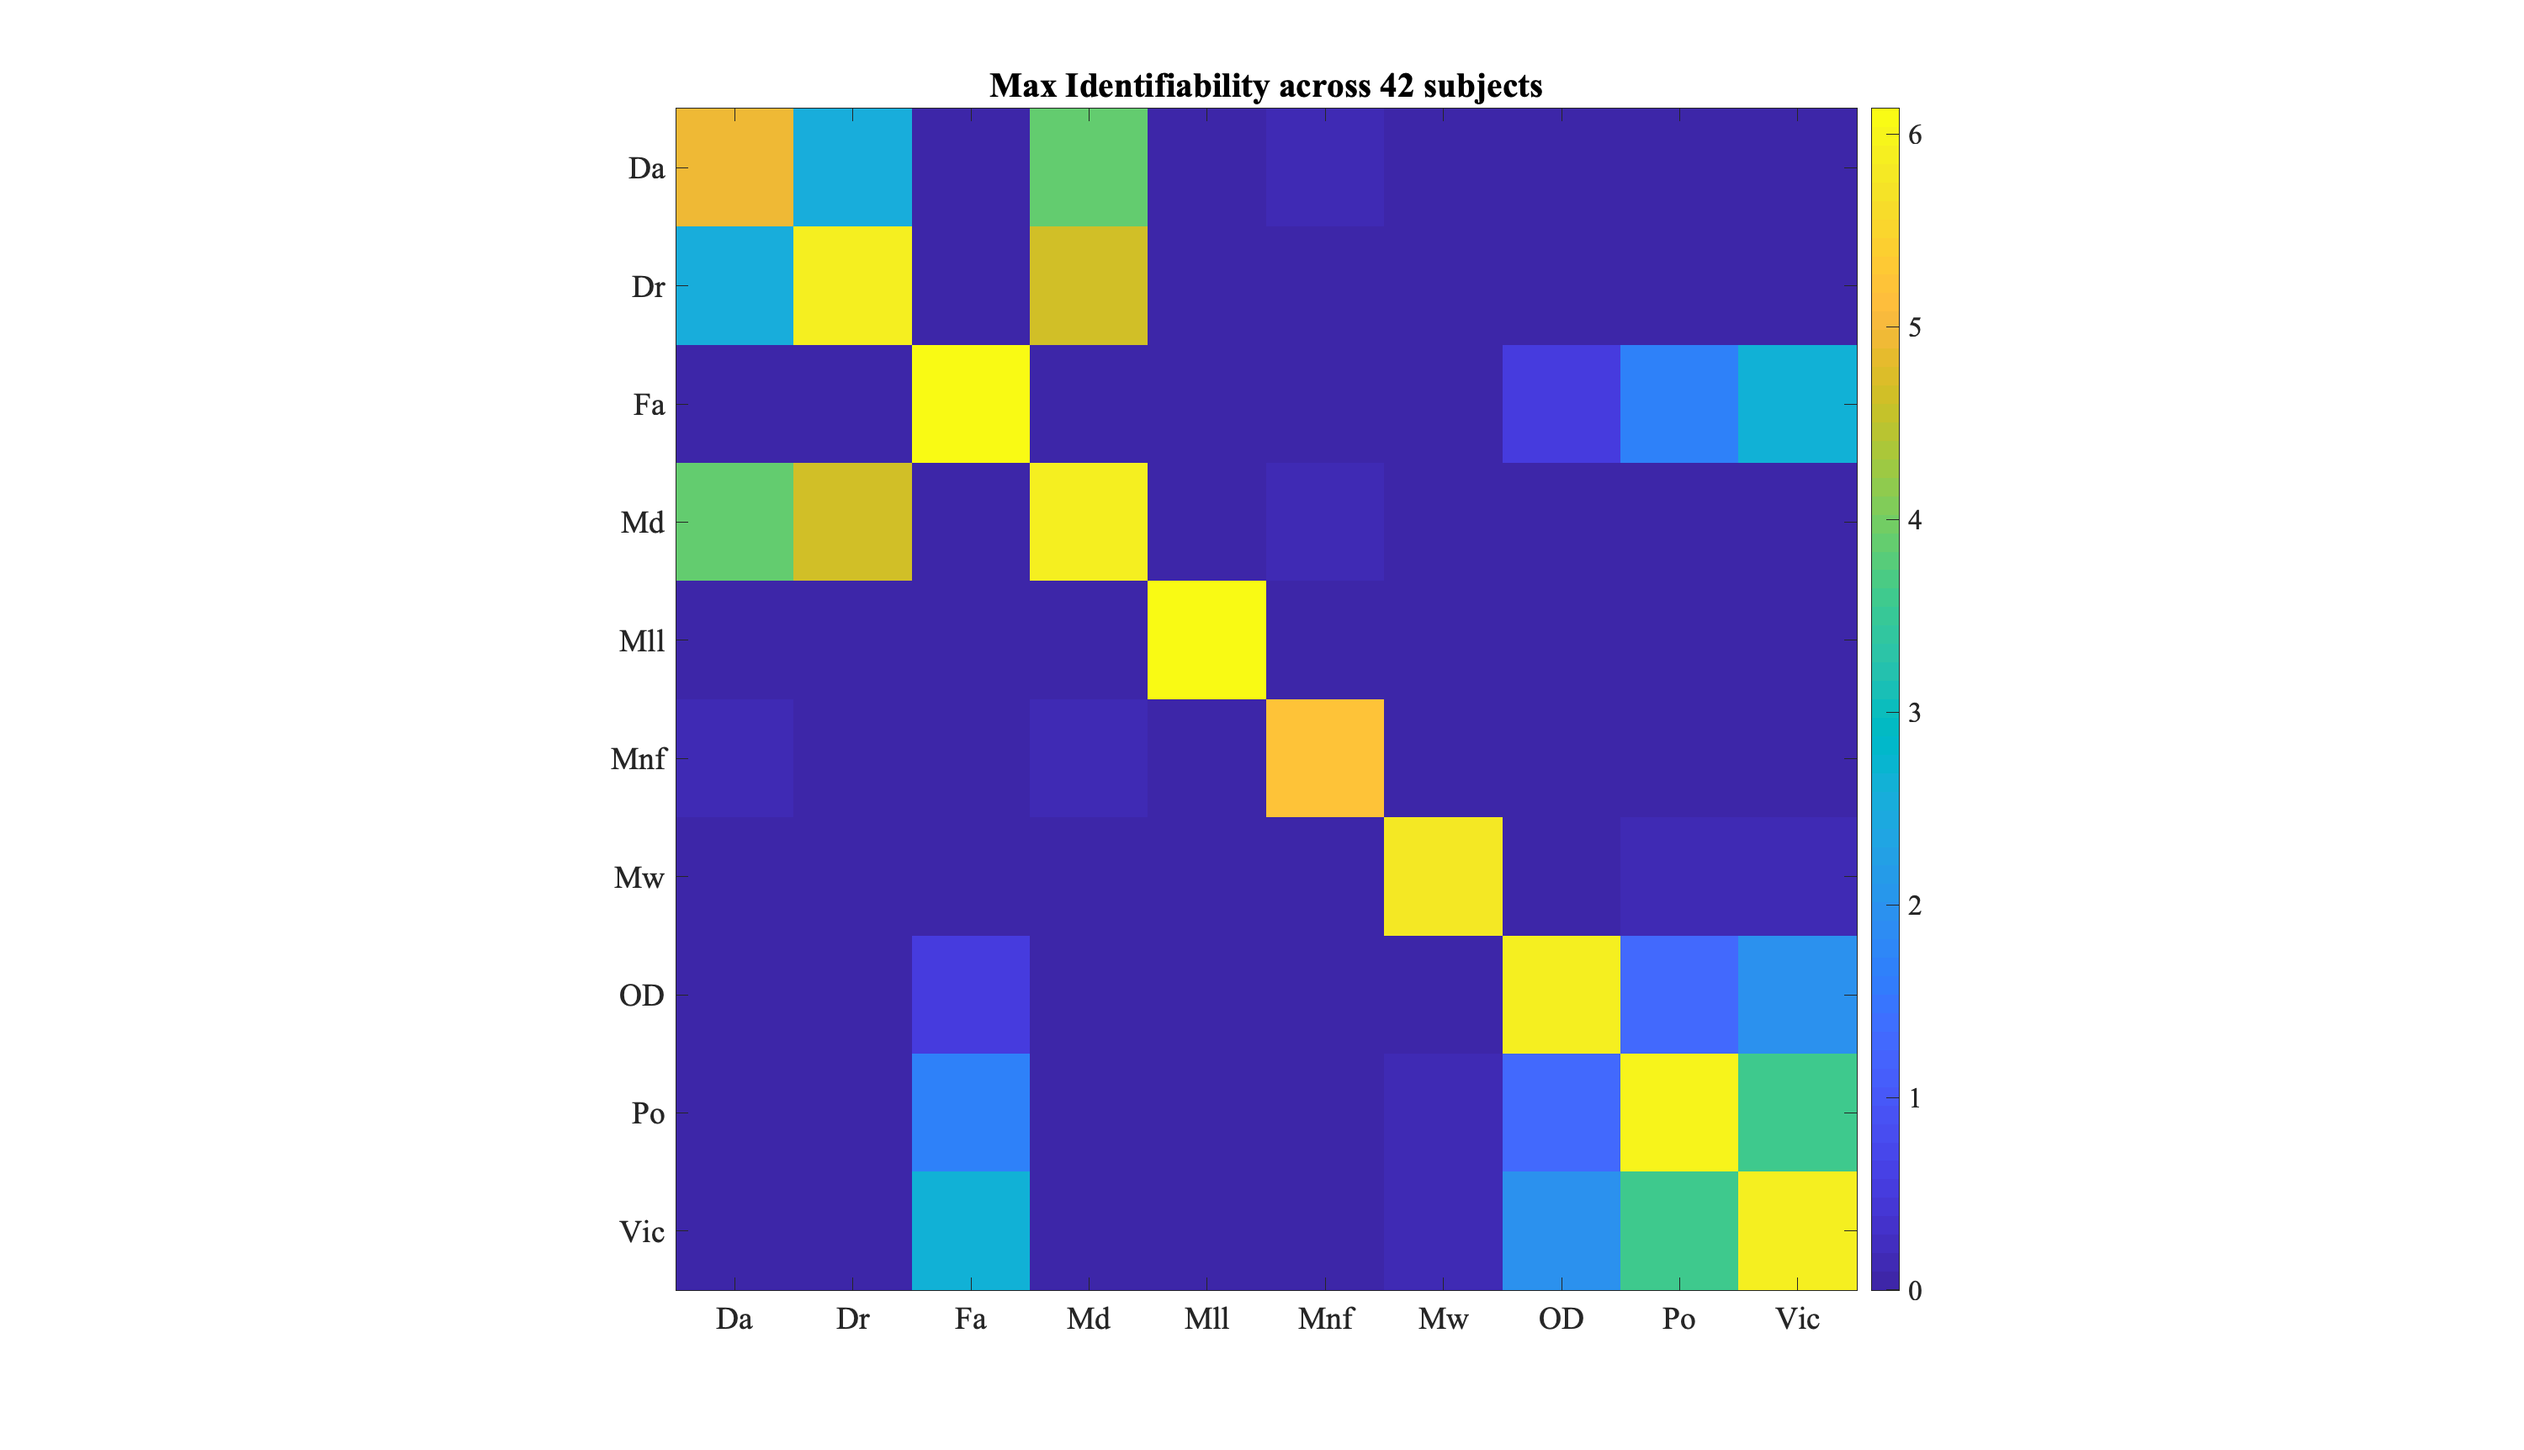
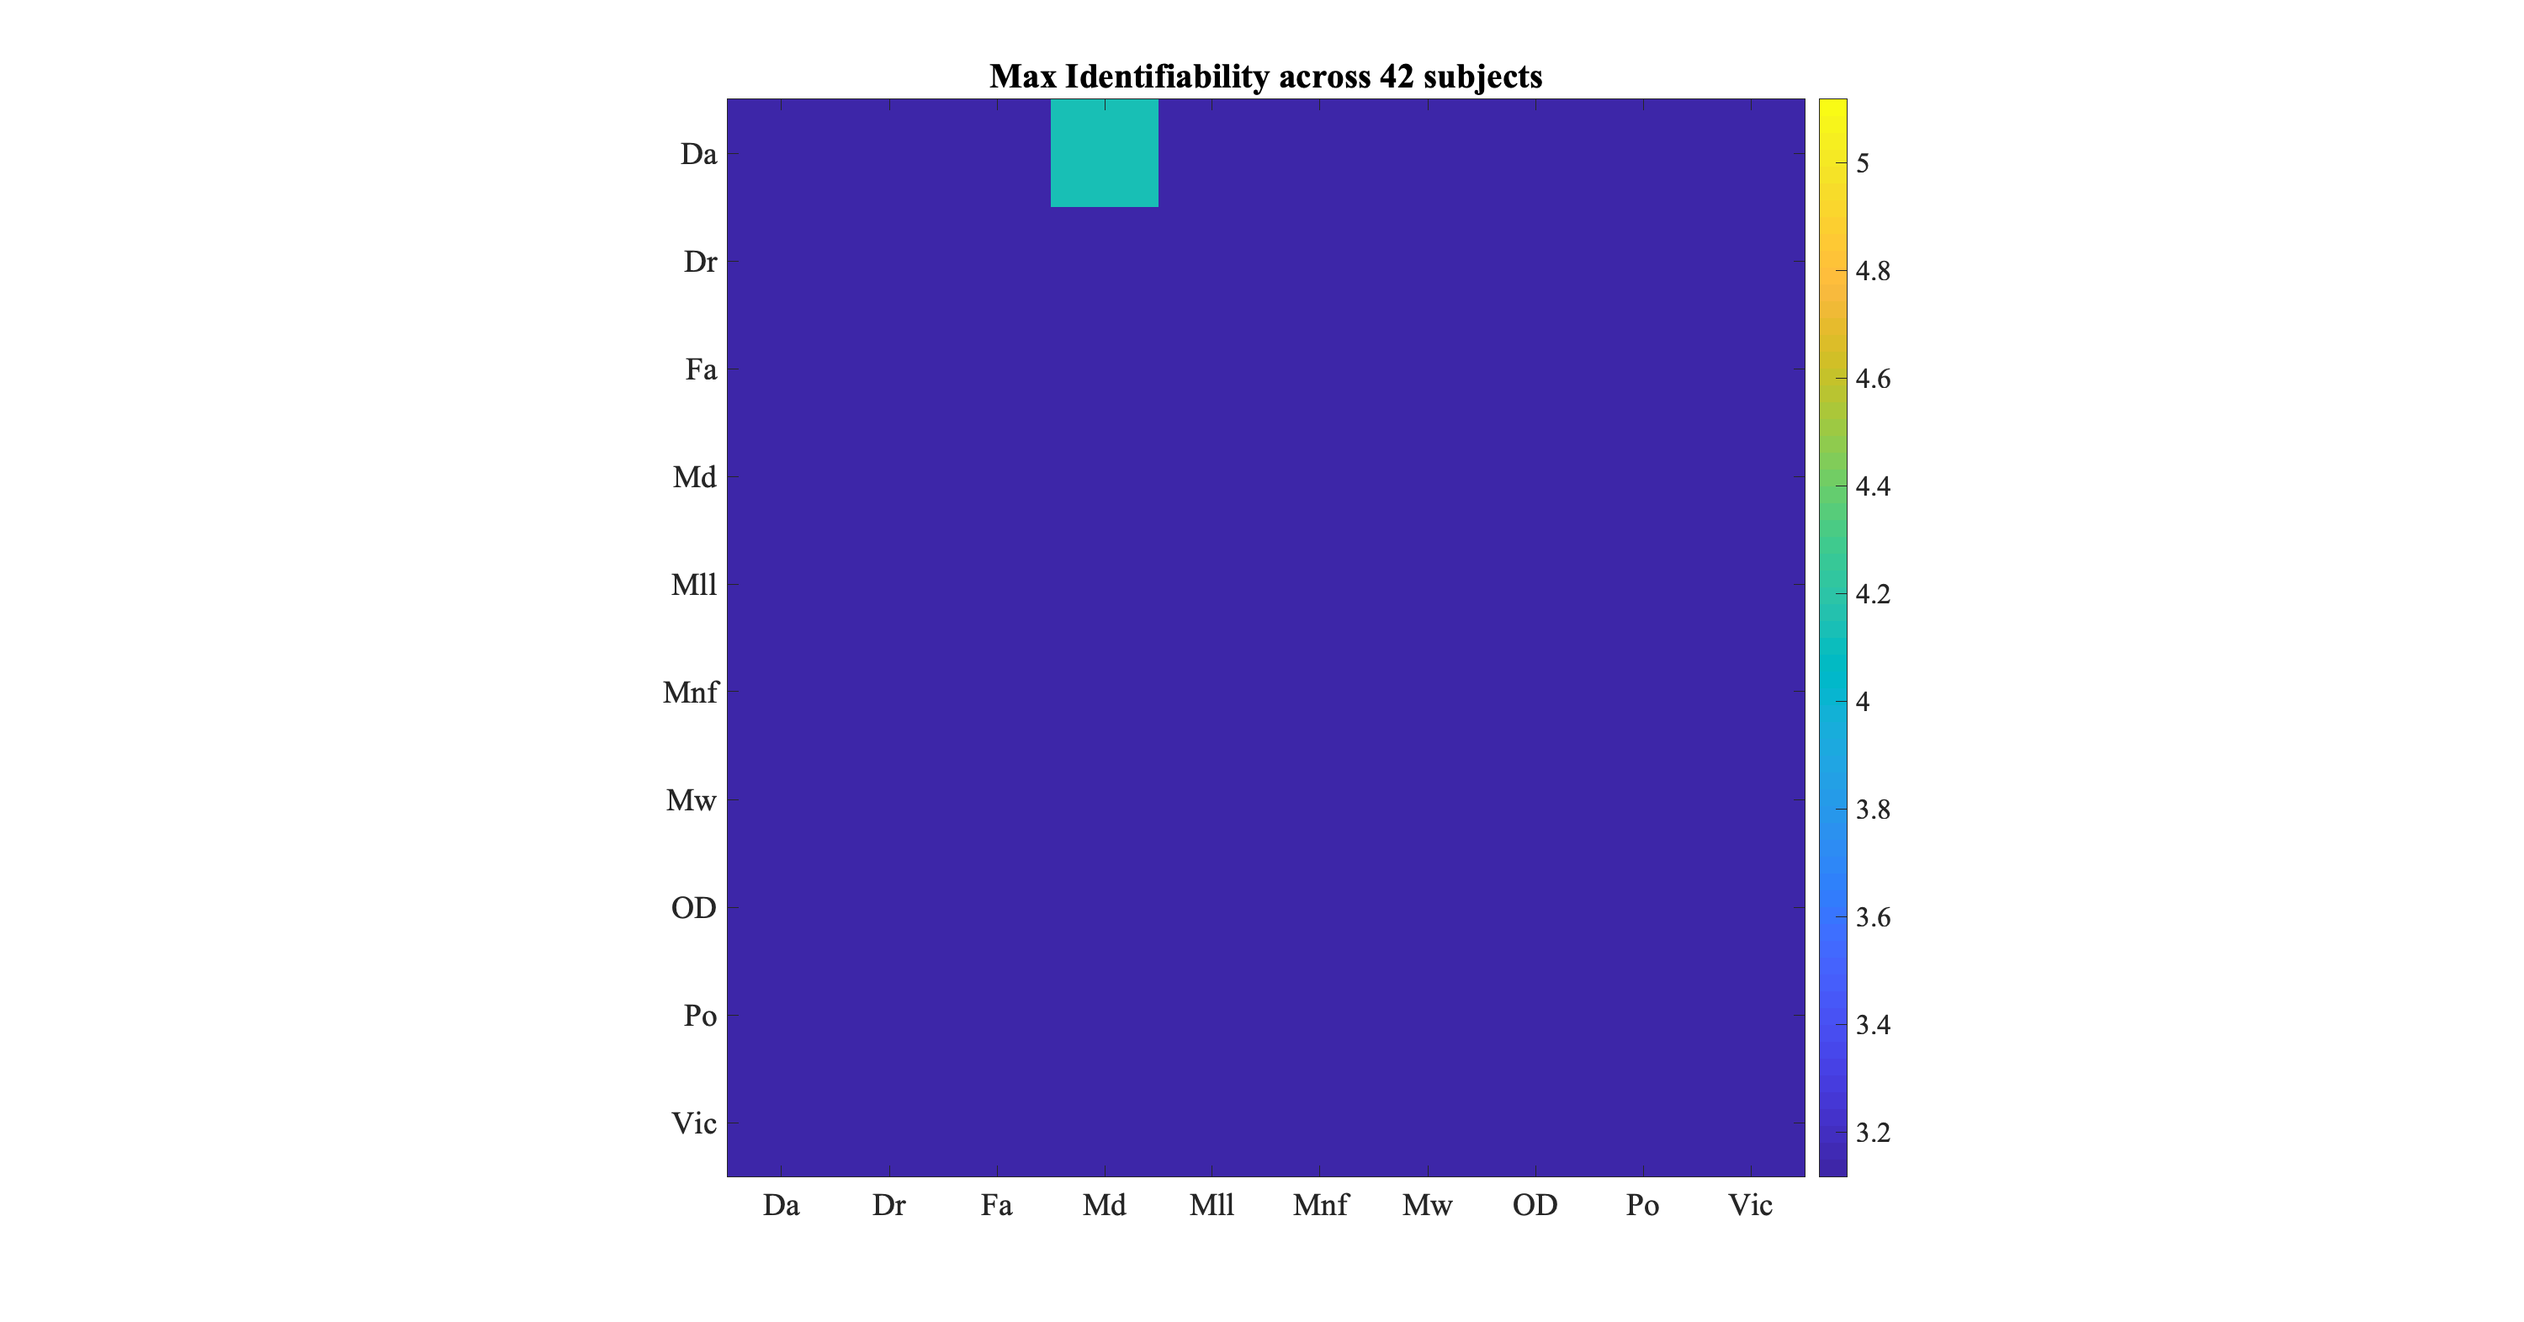
idiff done with spearman

Changed region(s): [[0.248, 0.0312, 0.775, 0.9357], [0.341, 0.6238, 0.434, 0.9357]]

diff --git a/Scripts/sc_identifiability.m b/Scripts/sc_identifiability.m
@@ -81,8 +81,8 @@ test_index = 1:42;
 retest_index = 43:84;
 max_idiff_mat = nan(10);
 
-for metric_1 = 1
-    for metric_2 = 4
+for metric_1 = 1:10
+    for metric_2 = 1:10
         metric1_index = metric_1:10:configs.numFCs;
         metric2_index = metric_2:10:configs.numFCs;
         pairwise_mat = connectivity_matrix(:,[metric1_index, metric2_index]);
@@ -98,31 +98,31 @@ for metric_1 = 1
             % Plotting
 %             figure,
 %             plot(r2)
-            fig = figure('units','normalized','outerposition',[0 0 1 1]); % Plot Figures
-            %suptitle(['Opt Identifiability Recon at ' int2str(m_star) ' PCA comps'])
-            subplot(1,3,1);
-            imagesc(Ident_mat_orig);
-            axis square; xlabel('subjects (Test)');ylabel('subjects (Retest)');
-            title(sprintf('original data, Idiff = %0.2f',Idiff_orig)); colorbar; % caxis([0.2 1]);
-            set(gca,'XTick',[],'YTick',[]);
-            
-            subplot(1,3,2);
-            plot(PCA_comps_range,Idiff_orig*ones(length(PCA_comps_range),1),'--r','LineWidth',2); hold on;
-            plot(PCA_comps_range,Idiff_recon,'-ob','LineWidth',2,'MarkerFaceColor','b','MarkerSize',8);
-            plot(m_star,Idiff_opt,'-sk','LineWidth',2,'MarkerFaceColor','k','MarkerSize',12);
-            
-            xlabel('number of PCA components'); ylabel('Idiff (z-score)');
-            axis square;
-            legend({'original data','reconstruction','optimal reconstruction'},'Location','SouthEast');
-            title(sprintf('%s | %s | %s', metrics{metric_1}, metrics{metric_2}, type{1}))
-            
-            sprintf('Maximal Identifiability (%0.2f) found at %d PCA comps',Idiff_opt,m_star)
-            
-            subplot(1,3,3);
-            imagesc(Ident_mat_recon_opt); axis square; xlabel('Subjects Test');ylabel('Subjects Retest');
-            title(sprintf('optimal reconstruction, Idiff = %0.2f',max(Idiff_recon))); colorbar; % caxis([0.2 1]);
-            set(gca,'XTick',[],'YTick',[]);
-            saveas(fig, sprintf('../Images/1-4_mask_%s.png', type{1}))
+%             fig = figure('units','normalized','outerposition',[0 0 1 1]); % Plot Figures
+%             %suptitle(['Opt Identifiability Recon at ' int2str(m_star) ' PCA comps'])
+%             subplot(1,3,1);
+%             imagesc(Ident_mat_orig);
+%             axis square; xlabel('subjects (Test)');ylabel('subjects (Retest)');
+%             title(sprintf('original data, Idiff = %0.2f',Idiff_orig)); colorbar; % caxis([0.2 1]);
+%             set(gca,'XTick',[],'YTick',[]);
+%             
+%             subplot(1,3,2);
+%             plot(PCA_comps_range,Idiff_orig*ones(length(PCA_comps_range),1),'--r','LineWidth',2); hold on;
+%             plot(PCA_comps_range,Idiff_recon,'-ob','LineWidth',2,'MarkerFaceColor','b','MarkerSize',8);
+%             plot(m_star,Idiff_opt,'-sk','LineWidth',2,'MarkerFaceColor','k','MarkerSize',12);
+%             
+%             xlabel('number of PCA components'); ylabel('Idiff (z-score)');
+%             axis square;
+%             legend({'original data','reconstruction','optimal reconstruction'},'Location','SouthEast');
+%             title(sprintf('%s | %s | %s', metrics{metric_1}, metrics{metric_2}, type{1}))
+%             
+%             sprintf('Maximal Identifiability (%0.2f) found at %d PCA comps',Idiff_opt,m_star)
+%             
+%             subplot(1,3,3);
+%             imagesc(Ident_mat_recon_opt); axis square; xlabel('Subjects Test');ylabel('Subjects Retest');
+%             title(sprintf('optimal reconstruction, Idiff = %0.2f',max(Idiff_recon))); colorbar; % caxis([0.2 1]);
+%             set(gca,'XTick',[],'YTick',[]);
+%             saveas(fig, sprintf('../Images/1-4_mask_%s.png', type{1}))
         end
         
     end
@@ -135,7 +135,7 @@ title('Max Identifiability across 42 subjects')
 set(gca,'xtick',1:10,'xticklabel',metrics)
 set(gca,'ytick',1:10,'yticklabel',metrics)
 colorbar
-saveas(fig, '../Images/max_ident_mat.png')
+saveas(fig, '../Images/max_ident_mat_spearman.png')
 %% How many shared edges in all 42 FCs?
 metric = 'Dr';
 indices = find(ismember(metrics, metric)):10:configs.numFCs; %index of conn. matrix for given metric
